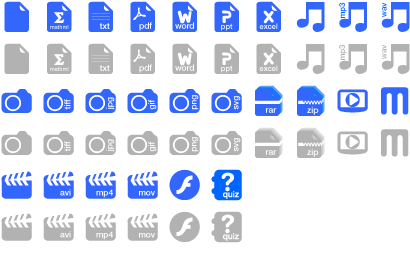
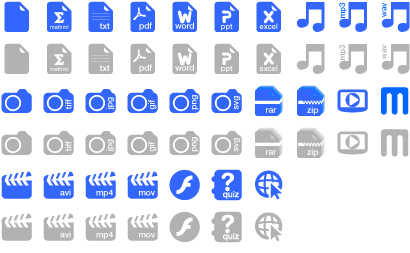
add incon link

diff --git a/app/assets/stylesheets/application.css.scss b/app/assets/stylesheets/application.css.scss
@@ -1051,6 +1051,8 @@ li{
 .icon_repository32-32_mov { background-position: -126px -210px ;}
 .icon_repository32-32_flash { background-position: -168px -210px ;}
 .icon_repository32-32_quiz { background-position: -210px -210px ;}
+.icon_repository32-32_link:hover { background-position: -252px -168px;}
+
 
 /*........................hover........................... */
 
@@ -1080,6 +1082,8 @@ li{
 .icon_repository32-32_mov:hover { background-position: -126px -168px ;}
 .icon_repository32-32_flash:hover { background-position: -168px -168px ;}
 .icon_repository32-32_quiz:hover { background-position: -210px -168px ;}
+.icon_repository32-32_link:hover { background-position: -252px -168px;}
+
 
 /*.................. icon repository 75 x 75 px......................*/
 
@@ -1127,6 +1131,8 @@ li{
 .icon_repository75-75_mov { background-position: -255px -425px ;}
 .icon_repository75-75_flash { background-position: -340px -425px ;}
 .icon_repository75-75_quiz { background-position: -425px -425px ;}
+.icon_repository75-75_link { background-position: -510px -425px;}
+
 
 /*........................hover........................... */
 
@@ -1156,6 +1162,8 @@ li{
 .icon_repository75-75_mov:hover { background-position: -255px -340px ;}
 .icon_repository75-75_flash:hover { background-position: -340px -340px ;}
 .icon_repository75-75_quiz:hover { background-position: -425px -340px ;}
+.icon_repository75-75_link:hover { background-position: -510px -340px;}
+
 
 /*.................. icon message 22 x 22 px......................*/
 
@@ -1300,6 +1308,7 @@ li{list-style-type:none}
 .icontool16-tool16_ramification { background-position: -364px -52px;}
 .icontool16-tool16_html { background-position: -390px -52px;}
 .icontool16-tool16_rss { background-position: -416px -52px;}
+
 
 
 /*hover*/
